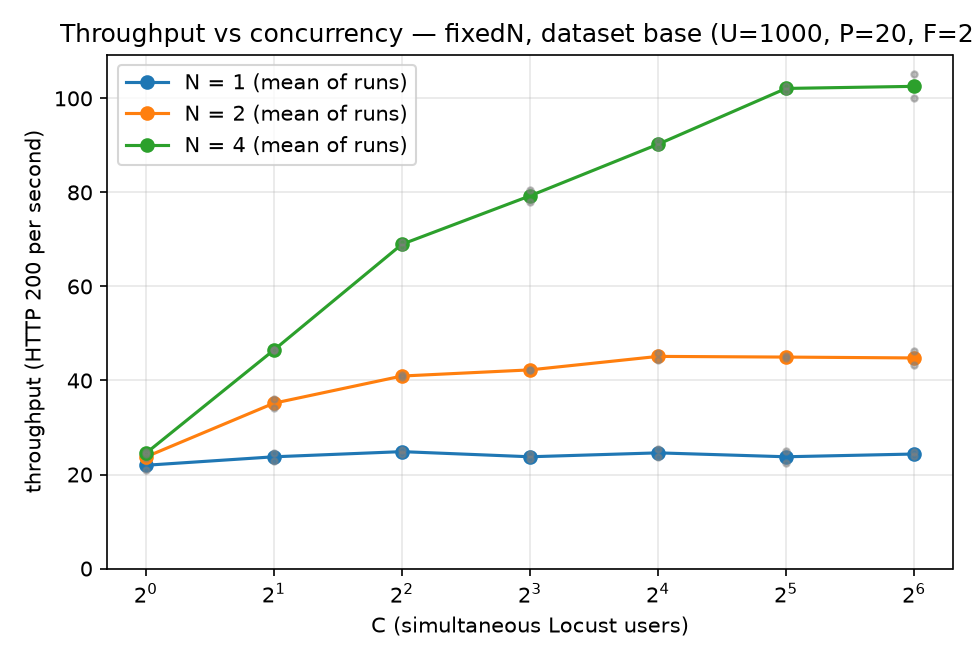
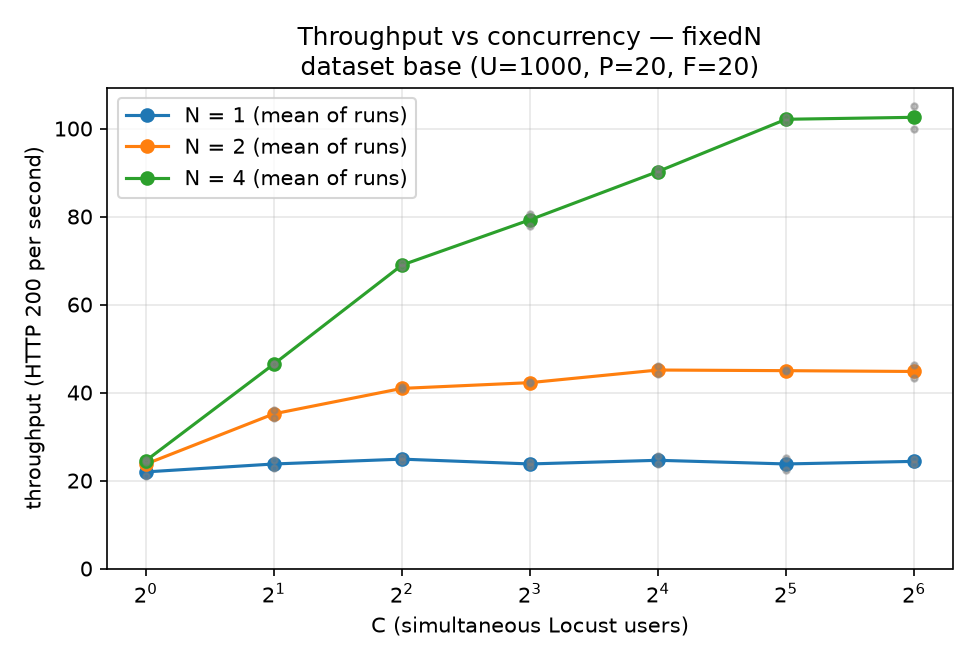
Polish: fixed Fig. 2a title, Fig. 3 markers, network-share statement, validity section condensed, structure table

Changed region(s): [[0.0, 0.0303, 1.0, 0.7576]]

diff --git a/scripts/plot_part3.py b/scripts/plot_part3.py
@@ -75,7 +75,7 @@ a = ax[0]
 if Fp:
     a.plot(Fp, [mean_part1(F) for F in Fp], "--", color="gray", label="original code, Part 1 (previous night)")
 fx = [F for F in Fs if mean_over(data, "server_median_ms", "fixed1", F) == mean_over(data, "server_median_ms", "fixed1", F)]
-a.plot(fx, [mean_over(data, "server_median_ms", "fixed1", F) for F in fx], "s-", color="C3", label="original code (fixed1), same session")
+a.plot(fx, [mean_over(data, "server_median_ms", "fixed1", F) for F in fx], "s", color="C3", label="original code (fixed1), before p3a, same session")
 fa = [F for F in Fs if mean_over(data, "server_median_ms", "fixed1after", F) == mean_over(data, "server_median_ms", "fixed1after", F)]
 a.plot(fa, [mean_over(data, "server_median_ms", "fixed1after", F) for F in fa], "^", color="C1", label="original code (fixed1), after p3a")
 a.plot(Fs, [mean_over(data, "server_median_ms", "p3a", F) for F in Fs], "o-", color="C0", label="new code (p3a)")

diff --git a/scripts/plot_part1.py b/scripts/plot_part1.py
@@ -62,7 +62,7 @@ for a, factor, sets, idx, fixed in ((ax[0], "U", ["u100", "base", "u10000"], 0, 
         ys = [data.get(p, {}).get(rep, {}).get("server_median_ms", float("nan")) for p in sets]
         a.plot(xs, ys, "o", alpha=0.6, label=f"run {rep}")
     a.plot(xs, [mean_over_reps(p, "server_median_ms") for p in sets], "-", color="gray", label="mean")
-    a.set_xscale("log"); a.set_ylim(bottom=0)
+    a.set_xscale("log"); a.set_ylim(0, a.get_ylim()[1] * 1.12)
     a.set_xlabel(f"{factor} ({'users' if factor == 'U' else 'posts per user'})")
     a.set_ylabel("median server time (ms)")
     a.set_title(f"Factor {factor} — fixed: {fixed}\nfixed1, one request at a time")

diff --git a/scripts/plot_part2.py b/scripts/plot_part2.py
@@ -82,7 +82,7 @@ for N in Ns:
         a.plot([p[0] for p in pts], [p[1] for p in pts], ".", color="gray", alpha=0.5)
 a.set_xscale("log", base=2); a.set_ylim(bottom=0)
 a.set_xlabel("C (simultaneous Locust users)"); a.set_ylabel("throughput (HTTP 200 per second)")
-a.set_title("Throughput vs concurrency — fixedN, dataset base (U=1000, P=20, F=20)")
+a.set_title("Throughput vs concurrency — fixedN\ndataset base (U=1000, P=20, F=20)")
 a.legend(); a.grid(alpha=0.3)
 fig.tight_layout(); fig.savefig(f"{OUT}/fig2a.png", dpi=150); plt.close(fig)
 

diff --git a/README.md b/README.md
@@ -6,7 +6,7 @@
 
 **Status:** Parts 1, 2 and 3, the verdict table and the validity answers are complete. Section 5 (cost of the campaign) will be filled in once the billing report is up to date.
 
-## Summary so far
+## Summary
 
 The time needed to build a timeline does not depend on the number of users (U) nor on the number of posts per user (P) in the ranges tested. It depends strongly on the number of followees (F): it is flat up to F = 29, jumps by a factor of about 18 at F = 30, then grows linearly at about 13 ms per followee. The cause was verified directly: Datastore rejects an `IN` filter with more than 30 values, and the application then falls back to one query per author.
 
@@ -23,7 +23,7 @@ Part 3 replaced the one-query-per-author fallback by queries on groups of at mos
 | `SUJET.md`, `public/`, `site/`, `make-site.sh`, `.gitlab-ci.yml` | instructor | assignment |
 | `README_instructor.md`, `bench/README.md` | instructor | original course READMEs, kept for reference (this file is my report) |
 | `scripts/` | author | measurement orchestration (`part1.sh`, `part2.sh`, `part3.sh`, `deploy_p3.sh`), checks, analysis and figures; `make_all.sh` regenerates every figure and table from `raw/` |
-| `raw/` | author | raw Locust logs (`raw/part1/`, `raw/pilot/`) |
+| `raw/` | author | raw Locust logs, one file per run: `raw/part1/`, `raw/part2/`, `raw/part3/`; `raw/pilot/` holds the discarded warm-ups and a pilot run |
 | `logs/` | author | generation, counting and check logs |
 | `figures/` | author | figures (`.png`) and plotted values (`.csv`) |
 | `part3/` | author | modified `get_timeline` for Part 3 (`part3/main.py`); the instructor's `main.py` is not modified |
@@ -101,7 +101,7 @@ Each dataset has a prefix: U users, exactly P posts and exactly F followees per 
 - *Why F matters, in two regimes.* While F + 1 ≤ 30, one `IN` query does all the work in about 21 ms. Beyond that, Datastore rejects the query, the `try/except` swallows the error, and the code issues one query per author, one after the other. The roughly constant 13 ms per followee is consistent with one sequential Datastore round trip per author. That the fallback path is the one executed was first read from the code and is consistent with the linear slope; it was later confirmed by counting the queries sent to Datastore (see the check by counting below).
 - *What I got right and wrong.* U: confirmed, no measurable effect. P: confirmed in size; the 1 to 2 ms differences between datasets are within the run-to-run noise, so I cannot even confirm the "slight increase". F: the direction was right, the shape was not. It is not exponential: the time is flat up to F = 29, jumps by a factor of about 18 at F = 30, then grows linearly (about 13 ms per followee; doubling F from 50 to 100 multiplies the time by about 1.9, not by an exponential factor). I had not taken into account the hard limit of 30 values on `IN`, which explains the step.
 
-**Network share.** Client latency minus server time is about 12 to 14 ms, almost constant. That is about 37% of the client latency for F ≤ 25 (12.6 of 34.2 ms) and about 1% at F = 100.
+**Network share.** Client latency minus server time is 12 to 14 ms in all the runs of the U and P series and for F up to 25, and 13 ms in the median over the 40 runs of the F series. In 8 of those 40 runs, all with F from 50 to 90, the gap is larger, from 15 to 34 ms (for example 34 ms for F = 50, run 2, and 30 ms for F = 80, run 2); I do not know why. The share is about 37% of the client latency for F up to 25 (12.6 of 34.2 ms) and about 1% at F = 100.
 
 **Entities read per timeline and cost** (`scripts/part1_cout.py`, `figures/part1_entities_cost.csv`). Assumption read from the code, then checked by counting (see below): 1 read of `User` plus 20 posts if F + 1 ≤ 30; otherwise 1 + 20 × (F + 1), since each author has at least 20 posts in the F series. Price: 0.06 USD per 100,000 reads. Index entries are not billed here because the query has at most one range property (pricing page).
 
@@ -132,7 +132,7 @@ Crossing F = 30 multiplies both the latency and the Datastore cost by about 30.
 - Saturation should then appear at very low concurrency (C = 1 or 2 for N = 1). Beyond it the throughput should stay flat while the latency grows with C (Little's law: latency ≈ C / throughput, about 1.5 to 2 s at C = 64 for N = 1).
 - For N = 2 and N = 4 the throughput should grow with N but by less than N times, as in my first guess: possible causes are uneven routing between instances, Datastore latency under load, and the load generator itself (Cloud Shell has 2 cores, Locust runs in one process). The client CPU is recorded during every run to test the last cause.
 
-### Results
+#### Measurements and results
 
 **Protocol.** Versions `fixed1`, `fixed2` and `fixed4` (N = 1, 2, 4 instances, manual scaling, class B1), dataset `base` (U = 1000, P = 20, F = 20), concurrency C in {1, 2, 4, 8, 16, 32, 64}: C simultaneous Locust users, each sending its next request as soon as it receives the previous answer. 75 s per run, 2 repetitions, C values run in random order, one 20 s warm-up discarded (`scripts/part2.sh`): 42 runs. One version was running at a time and was stopped after its measurements. Throughput is the number of HTTP 200 responses per second in the window from 5 s to 70 s of each run; latency is measured by the client and therefore includes about 12 to 14 ms of network. The analysis is in `scripts/plot_part2.py` and `scripts/part2_capacity.py`. Running time of the instances (`logs/instance_hours.log`): about 2.3 instance-hours in total for these measurements.
 
@@ -204,7 +204,6 @@ Crossing F = 30 multiplies both the latency and the Datastore cost by about 30.
 - Throughput growing with N but by less than N times: not confirmed. The measured speed-ups are 1.8 for N = 2 and 4.2 for N = 4, within the noise of linear.
 - The load generator as a possible bottleneck: ruled out by the CPU measurements. Uneven routing and Datastore latency as other possible causes: not tested separately; the totals per instance are balanced, and no Datastore measurement was made.
 
-
 ### 2.3 Part 3 — Fix and re-measure
 
 **Chosen bottleneck.** The 30-value limit of the `IN` filter in `get_timeline` (Part 1): above 29 followees, the application falls back to one query per author and the time grows linearly with F. A second candidate (one request at a time per instance, Part 2) may be tried afterwards as an extra experiment, only if time allows; it is not part of this section.
@@ -245,7 +244,7 @@ Median server time of the new code for every F (ms, mean of 2 runs): F = 5 to 25
 
 - With the new code the curve is a staircase with four plateaus: about 28 ms (F up to 25), about 68 ms (F = 30 to 55), about 89 ms (F = 60 to 85) and about 110 ms (F = 90 to 100). Each step lies between two measured values of F (25 and 30, 55 and 60, 85 and 90); F = 26 to 29 and the other intermediate values were not measured, so the exact position of the steps is only known to that precision.
 - The first step is about 40 ms high; the next two are about 21 ms each.
-- For F up to 29 there is no measurable change: 28.1 ms with the new code against 31.2 ms with the original code at F = 20, a difference smaller than the difference of about 8 to 11% between two measurements of the original code in the same session.
+- For F up to 29 there is no measurable change: 28.1 ms with the new code against 31.2 ms with the original code at F = 20, a difference of about 10%, the same size as the 8 to 11% between two measurements of the original code in the same session.
 - For F = 30, 60 and 100 the new code is about 10, 16 and 19 to 22 times faster than the original code measured in the same session. The original code goes from 691 to 2386 ms between F = 30 and F = 100, while the new code goes from 67 to 110 ms.
 
 **Interpretation.** The original code issued one query per author as soon as there were more than 30 authors (Part 1). With groups of at most 30 authors, the number of queries is the number of groups, that is the ceiling of (F + 1) / 30: 1 for F up to 29, 2 for F = 30 to 59, 3 for F = 60 to 89 and 4 for F = 90 to 100. This is what the plateaus show: each new group adds one sequential query, which cost about 21 ms in the second and third steps (one extra group containing a single author each time at F = 60 and F = 90). I do not know why the first step (F = 30) is twice as high, since its second group also contains a single author. I did not investigate it and I do not want to guess.
@@ -254,7 +253,7 @@ Median server time of the new code for every F (ms, mean of 2 runs): F = 5 to 25
 
 - No change for F up to 29: confirmed. The absolute value I expected (20 to 25 ms) was too low: 27 to 30 ms were measured, in a session where the original code was also slower than in Part 1 (31 ms against 23 ms at F = 20).
 - About 70 to 100 ms at F = 100: measured 110 ms, a little above my range. About 15 times faster: measured 19 to 22 times against the original code in the same session, and about 12 times against the Part 1 measurement of the previous night (1328 ms). The gain depends on which measurement of the original code is used; I report the same-session one.
-- A staircase with steps at F = 30, 60 and 90: confirmed qualitatively (see above for the precision). The step height of 15 to 20 ms was right for two steps out of three and about half of the first step.
+- A staircase with steps at F = 30, 60 and 90: confirmed qualitatively (see above for the precision). The step height of 15 to 20 ms was about right for two steps out of three (about 21 ms), and about half of the real height of the first step (about 40 ms).
 - The cost of one query with 30 values (the biggest uncertainty I had named) was not measured separately; the steps suggest about 21 ms per extra group.
 - Same answers: confirmed on 40 users of 4 datasets and on one user through the deployed version. I did not observe any difference in the order of posts created in the same second.
 - Entities read and cost: the numbers of entities were counted (`scripts/check_reads.py`): 41, 61 and 81 entities at F = 30, 60 and 100 with the new code, for 2, 3 and 4 queries, against 621, 1221 and 2021 with the original code, as predicted. The cost in USD remains a calculation from these counts: about 24.6, 36.6 and 48.6 USD per million timelines instead of 372.6, 732.6 and 1,212.6 USD.
@@ -279,31 +278,23 @@ Median server time of the new code for every F (ms, mean of 2 runs): F = 5 to 25
 
 1. *How many instances served each measurement?* Part 1: exactly 1 in all 52 runs. Part 2: 1, 2 and 4 in the 14 runs of each version (42 runs). Part 3: exactly 1 in all 52 runs. Counted as the number of distinct `X-Instance` values among the HTTP 200 answers (`logs/check_part1.txt`, `figures/part2_checks.csv`, `logs/part3_summary.txt`). Before the Part 2 runs, `gcloud app instances list` showed 2 instances for `fixed2` and 4 for `fixed4`.
 2. *Are the runs independent?* Within each version the datasets (Parts 1 and 3) or the concurrency levels (Part 2) were run in random order, with 2 repetitions. The versions were not interleaved: the three versions of Part 2 were measured one after the other within about 70 minutes, and in Part 3 the original code was measured before and after the new code. The measurements of the original code differ by about 8 to 11% inside the Part 3 session and by a factor of 1.35 to 1.8 between the Part 1 and the Part 3 sessions, without established explanation (Part 1 was run around 23:30 UTC and Part 3 around 13:00 UTC; I did not test whether the time of day plays a role). The second repetition is slower than the first in all the cases of Fig. 1a. I therefore compare values only inside one session, and treat differences below about 10% as noise.
-3. *What is the share of the network?* Part 1: client latency minus server time is 12 to 14 ms, about 37% of the latency for F up to 25 and about 1% at F = 100. In the Part 3 session the gap was about 30 ms at F = 20 and 13 to 22 ms for F from 30 to 100, for a reason I do not know. In Part 2 the latency includes the waiting time in the queue of the instance, so the network share was not computed separately.
+3. *What is the share of the network?* Part 1: client latency minus server time is 12 to 14 ms in most runs (median 13 ms; 8 of the 40 runs of the F series, all with F from 50 to 90, show 15 to 34 ms), about 37% of the latency for F up to 25 and about 1% at F = 100. In the Part 3 session the gap was about 30 ms at F = 20 and 13 to 22 ms for F from 30 to 100, for a reason I do not know. In Part 2 the latency includes the waiting time in the queue of the instance, so the network share was not computed separately.
 4. *What is counted as a failure?* An answer whose status is not 200, or a network error (status 0). Part 1: 0 out of the 52 runs (a pilot run on the autoscaled version had 2 failures out of 924 requests at its start). Part 2: 138 out of 142,479 requests (0.10%), only `gaierror` (92) and `ConnectionRefusedError` (46), none at C = 1 or 2, no HTTP error status. Part 3: 0. The only HTTP status code observed in all the measurements was 200; the failures are network-level errors (status 0 in the logs). The causes of the failures of Part 2 are unknown.
 5. *Is the code path the one I think?* `scripts/check_in_limit.py` proves that `IN` is rejected above 30 values. The fallback to one query per author was read from `main.py` and then observed by counting the queries sent to Datastore (`scripts/check_reads.py`: for F = 30, 60 and 100, one rejected `IN` query followed by F + 1 queries). The equality of the answers of the original and the new code was checked on 40 users of 4 datasets and on one user through the deployed version. The load generator records headers and status, not the content of the answers, so it cannot show that every answer was correct. Parts 1 and 3 query a single user per run (`-u 1`); Part 2 queries many users of `base` with F = 20, which stays on the single-query path.
 6. *How much did it cost?* See section 5.
 
-**Detailed notes by part.**
+**Additional details behind the answers.**
 
-1. **Instances that served the measurements.** Exactly 1 instance in all 52 runs (`logs/check_part1.txt`, column `instances`, computed from the `X-Instance` header).
-2. **Independence of runs.** Datasets were run in random order, with 2 repetitions. The gap between repetitions reaches about 20% for high F (F = 35: 476.6 and 577.2 ms). In Fig. 1a the second repetition is slower in all 6 cases; I could not establish why, so I do not rely on differences smaller than that gap.
-3. **Network share.** About 12 to 14 ms (see 2.1).
-4. **Failures.** 0 failures out of the 52 runs, only HTTP 200. A pilot run on the autoscaled version (`raw/pilot/test1.csv`) had 2 connection failures out of 924 requests, both at the very start of the run, most probably an instance still starting (not verified). Definition used: status other than 200, or a network error (status 0).
-5. **Code path.** `scripts/check_in_limit.py` proves that `IN` is rejected above 30 values. The fallback to one query per author was read from `main.py` and then confirmed by counting the queries (see Part 1). Each run queries a single user (`-u 1`), so the results describe that user's timeline, not an average over users.
-
-6. **Instances that served the Part 2 measurements.** In all 42 runs the number of distinct instances that answered was equal to N (1, 2 and 4; `figures/part2_checks.csv`, column `instances_serving`, from the `X-Instance` header). Before the measurements, `gcloud app instances list` showed 2 instances for `fixed2` and 4 for `fixed4`.
-7. **Failures in Part 2.** 138 failures out of 142,479 requests (0.10%): 37 of 24,865 for N = 1, 45 of 41,289 for N = 2 and 56 of 76,325 for N = 4. They are of two kinds only, both on the client side of the connection: `gaierror` (name resolution; 92 in total) and `ConnectionRefusedError` (46 in total). There was no HTTP error status. There was no failure for C = 1 or 2 in any version; failures start at C = 4 (N = 2 and 4) or C = 8 (N = 1). I do not know their cause. I did not remove them from the analysis; throughput counts only the HTTP 200 answers.
-8. **Independence of the Part 2 runs.** The C values were run in random order with 2 repetitions. The three versions were measured one after the other, in the order N = 1, 2, 4, within about 70 minutes, so an effect of the time of measurement cannot be separated from the effect of N. The throughput of a single user (C = 1) is about the same for the three versions (21 to 25 requests per second), which is some evidence against a drift during the session.
-9. **Difference with Part 1.** In Part 1, a single user obtained about 28 requests per second from `fixed1` on the same dataset and the same user (for example 1,272 requests in 45 s on `base`), whereas in Part 2 at C = 1 `fixed1` gave 21 to 23 per second a few hours later. This follows from the server time itself, which was about 28 ms in the Part 2 session against 22 ms in Part 1 (`figures/part2_server_time.csv`, `figures/fig1a.csv`); I do not know why the server time was higher. Absolute capacities should therefore be taken with an uncertainty of about 20%; the ratios between N, measured within the same hour, are in my opinion more reliable.
-10. **Client capacity.** The CPU of the load generator was low (see Part 2), which supports the assumption of the assignment that it is not a bottleneck.
-
-11. **Part 3: instances and failures.** In the 52 runs of Part 3 exactly one instance answered and there was no failure (`logs/part3_summary.txt`).
-12. **Part 3: drift inside the session.** The original code was measured before `p3a` and again after it, about 45 minutes later: 691 then 636 ms at F = 30 (8% lower) and 2386 then 2116 ms at F = 100 (11% lower). I therefore report the gain against both, and consider an uncertainty of about 10% on it. I do not know the cause of this difference.
-13. **Part 3: difference with Part 1.** The original code was slower in the Part 3 session than in Part 1: about 1.35 times at F = 20, 1.7 times at F = 30 and 1.8 times at F = 60 and 100, with no established explanation; the two sessions took place at different times of day (around 23:30 UTC and around 13:00 UTC), which may play a role, and I did not test it. Values of Part 1 and of Part 3 must therefore not be mixed; only the same-session values are compared.
-14. **Part 3: order of the measurements.** The versions were not interleaved: original code (8 runs), then `p3a` (40 runs), then the original code again (4 runs). The two measurements of the original code surround those of `p3a`, which limits but does not remove an effect of the time of measurement.
-15. **Part 3: same configuration.** `p3a` was deployed with a script that I wrote to produce the same settings as `deploy_fixed.sh 1` (class B1, one fixed instance); I did not compare the generated file with the one of `fixed1` line by line.
-16. **Part 3: code path.** The equality of the answers was checked on 40 users of 4 datasets and on one user through the deployed version, not on every user. Each timing run queries a single user (`-u 1`).
+- *Part 1, repetitions.* The gap between the two repetitions reaches about 20% for high F (F = 35: 476.6 and 577.2 ms). In Fig. 1a the second repetition is slower in all 6 cases; I could not establish why, so I do not rely on differences smaller than that gap. A pilot run on the autoscaled version (`raw/pilot/test1.csv`) had 2 connection failures out of 924 requests, both at the very start of the run, most probably an instance still starting (not verified).
+- *Part 2, failures.* 138 failures out of 142,479 requests: 37 of 24,865 for N = 1, 45 of 41,289 for N = 2 and 56 of 76,325 for N = 4; `gaierror` 92 and `ConnectionRefusedError` 46, all on the client side of the connection. Failures start at C = 4 (N = 2 and 4) or C = 8 (N = 1). They were not removed from the analysis; throughput counts only the HTTP 200 answers.
+- *Part 2, order of the versions.* N = 1, 2 and 4 were measured in this order within about 70 minutes, so an effect of the time of measurement cannot be separated from the effect of N. The throughput of a single user (C = 1) is about the same for the three versions (21 to 25 requests per second), which is some evidence against a drift during the session.
+- *Part 2 compared with Part 1.* In Part 1, a single user obtained about 28 requests per second from `fixed1` on the same dataset and the same user (for example 1,272 requests in 45 s on `base`), whereas in Part 2 at C = 1 `fixed1` gave 21 to 23 per second a few hours later. This follows from the server time itself, which was about 28 ms in the Part 2 session against 22 ms in Part 1 (`figures/part2_server_time.csv`, `figures/fig1a.csv`); I do not know why the server time was higher. Absolute capacities should therefore be taken with an uncertainty of about 20%; the ratios between N, measured within the same hour, are in my opinion more reliable.
+- *Part 2, client.* The CPU of the load generator was low (see 2.2), which supports the assumption of the assignment that it is not a bottleneck.
+- *Part 3, drift inside the session.* The original code was measured before `p3a` and again after it, about 45 minutes later: 691 then 636 ms at F = 30 (8% lower) and 2386 then 2116 ms at F = 100 (11% lower). I therefore report the gain against both, and consider an uncertainty of about 10% on it. I do not know the cause of this difference.
+- *Part 3 compared with Part 1.* The original code was slower in the Part 3 session than in Part 1: about 1.35 times at F = 20, 1.7 times at F = 30 and 1.8 times at F = 60 and 100, with no established explanation; the two sessions took place at different times of day (around 23:30 UTC and around 13:00 UTC), which may play a role, and I did not test it. Values of Part 1 and of Part 3 must therefore not be mixed; only the same-session values are compared.
+- *Part 3, order of the measurements.* The versions were not interleaved: original code (8 runs), then `p3a` (40 runs), then the original code again (4 runs). The two measurements of the original code surround those of `p3a`, which limits but does not remove an effect of the time of measurement.
+- *Part 3, same configuration.* `p3a` was deployed with a script that I wrote to produce the same settings as `deploy_fixed.sh 1` (class B1, one fixed instance); I did not compare the generated file with the one of `fixed1` line by line.
+- *Part 3, code path.* The equality of the answers was checked on 40 users of 4 datasets and on one user through the deployed version, not on every user. Each timing run queries a single user (`-u 1`).
 
 ## 5. Cost of the campaign
 
@@ -327,7 +318,7 @@ Total logged: about 3.4 B1 instance-hours. Not logged: the Part 1 measurements o
 
 ## Tools and AI assistance
 
-I used an AI assistant (Claude) during this project to explain concepts, write the measurement and plotting scripts, review results, and draft this report. The experiments were run by me on my own GCP project and every figure and number comes from my own measurements.
+I used an AI assistant (Claude) during this project to explain concepts, write the measurement and plotting scripts, review results, and draft this report. The initial guesses of Parts 1 and 2 are my own; the revised estimates of Part 2 and the predictions of Part 3 were worked out with the assistant from the data of the previous part and accepted by me. The experiments were run by me on my own GCP project and every figure and number comes from my own measurements.
 
 ## Reproduce
 
